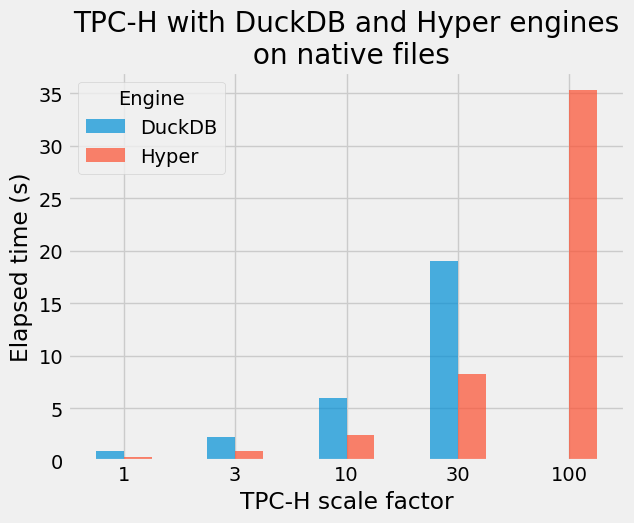
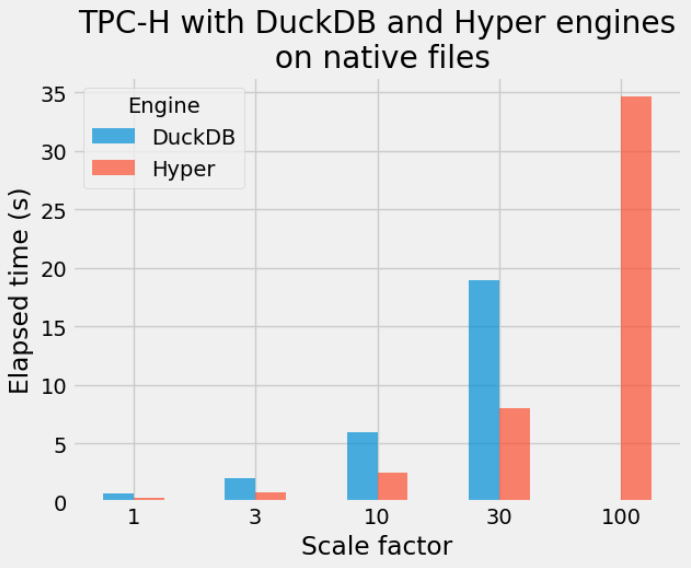
update

diff --git a/_posts/2023-04-18-TPC-H-benchmark-of-DuckDB-and-Hyper-on-native-files-WIP.md b/_posts/2023-04-18-TPC-H-benchmark-of-DuckDB-and-Hyper-on-native-files-WIP.md
@@ -7,11 +7,9 @@ tags:
 - TPC-H 
 - benchmark
 - SQL
-- Parquet
 - DuckDB
 - Hyper
 - Python
-- Windows
 - Linux
 ---
 
@@ -100,13 +98,13 @@ while result.next_row():
 result.close()
 ```
 
-| Scale factor | DuckDB (s)  | Hyper (s) |
-|----:|----------:|----------:|
-|   1 |  0.91 |  0.35 |
-|   3 |  2.23 |  0.90 |
-|  10 |  5.97 |  2.46 |
-|  30 | 10.00 |  8.20 |
-| 100 |   NaN | 35.26 |
+| Scale factor| DuckDB (s)  | Hyper (s) |
+|---------------:|-------:|------:|
+|              1 |   0.75 |  0.29 |
+|              3 |   2.04 |  0.79 |
+|             10 |   5.95 |  2.46 |
+|             30 |  18.99 |  8.02 |
+|            100 |    NaN | 34.63 |
 
 On the scale factor 100 data, query 21 is crashing when using DuckDB Engine with a *cannot allocate memory* error. 
 
